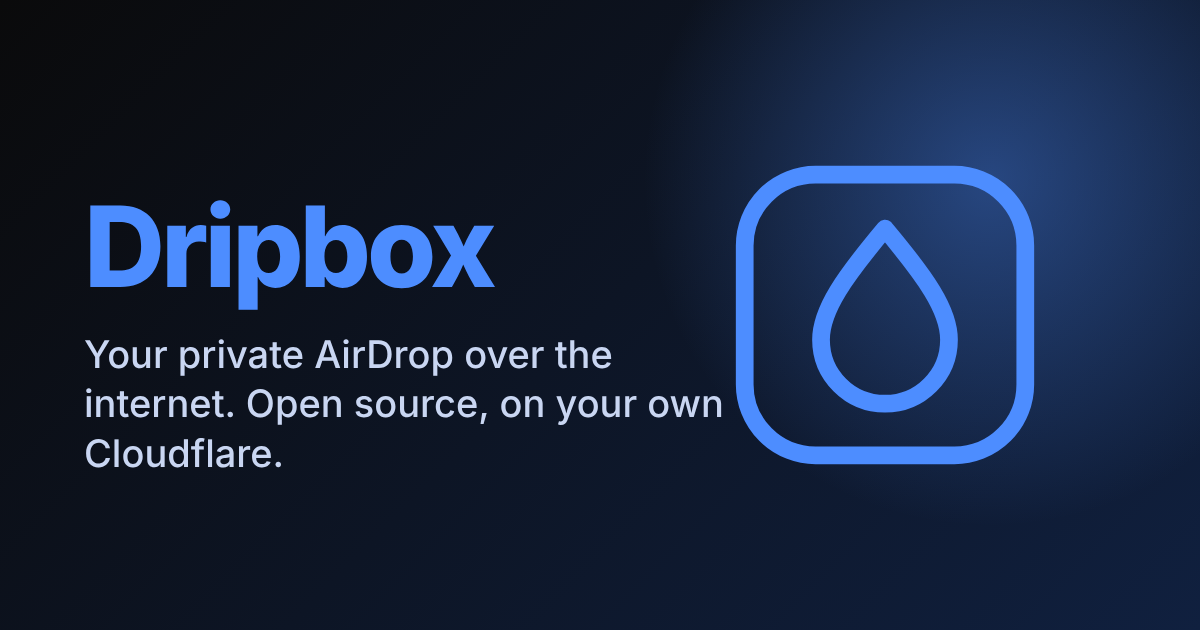
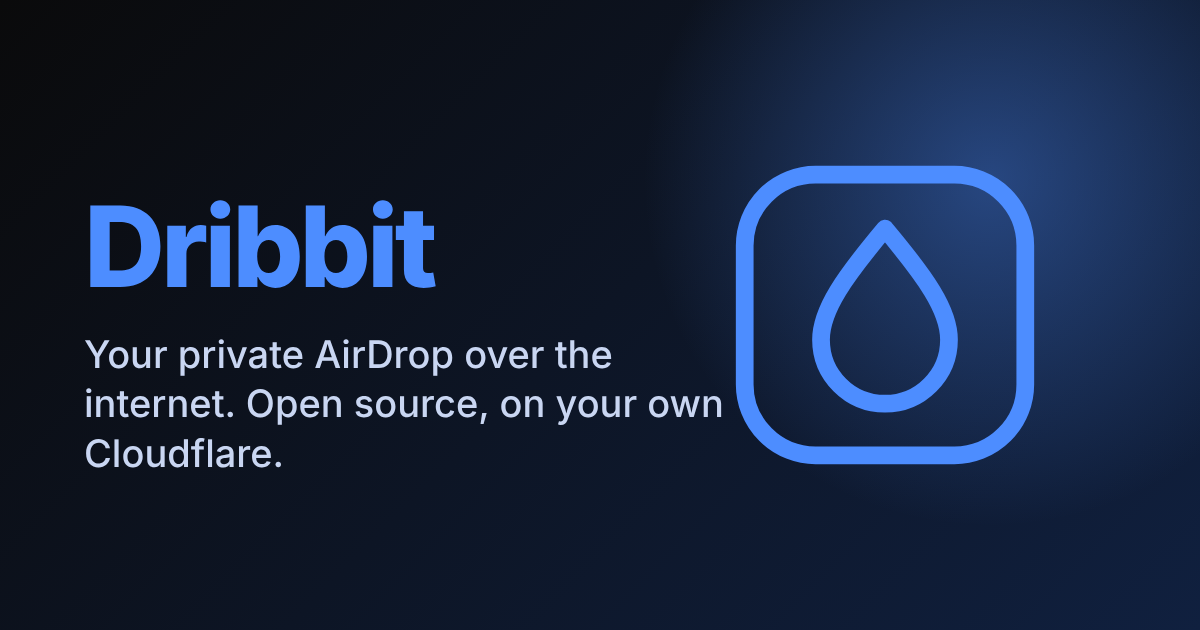
Rename the project to Dribbit
Claude-Session: https://claude.ai/code/session_01AAFahuwgiKiusWtWqh5i47

Changed region(s): [[0.3083, 0.3016, 0.4317, 0.4825], [0.185, 0.4524, 0.2158, 0.5127], [0.185, 0.3016, 0.2158, 0.3619]]

diff --git a/index.html b/index.html
@@ -3,21 +3,21 @@
 <head>
 <meta charset="utf-8">
 <meta name="viewport" content="width=device-width, initial-scale=1, viewport-fit=cover">
-<title>Dripbox: your own private AirDrop over the internet</title>
-<meta name="description" content="Dripbox is an open-source, self-hosted private AirDrop. Send text, links and files between your phone, laptop and PC. Runs free on your own Cloudflare account.">
-<link rel="canonical" href="https://dripbox.pages.dev/">
+<title>Dribbit: your own private AirDrop over the internet</title>
+<meta name="description" content="Dribbit is an open-source, self-hosted private AirDrop. Send text, links and files between your phone, laptop and PC. Runs free on your own Cloudflare account.">
+<link rel="canonical" href="https://dribbit.pages.dev/">
 <meta name="robots" content="index,follow,max-image-preview:large">
 <!-- Search Console: paste the verification tag here -->
 <meta property="og:type" content="website">
-<meta property="og:site_name" content="Dripbox">
-<meta property="og:title" content="Dripbox: your own private AirDrop over the internet">
-<meta property="og:description" content="Dripbox is an open-source, self-hosted private AirDrop. Send text, links and files between your phone, laptop and PC. Runs free on your own Cloudflare account.">
-<meta property="og:url" content="https://dripbox.pages.dev/">
-<meta property="og:image" content="https://dripbox.pages.dev/og.png">
+<meta property="og:site_name" content="Dribbit">
+<meta property="og:title" content="Dribbit: your own private AirDrop over the internet">
+<meta property="og:description" content="Dribbit is an open-source, self-hosted private AirDrop. Send text, links and files between your phone, laptop and PC. Runs free on your own Cloudflare account.">
+<meta property="og:url" content="https://dribbit.pages.dev/">
+<meta property="og:image" content="https://dribbit.pages.dev/og.png">
 <meta property="og:image:width" content="1200">
 <meta property="og:image:height" content="630">
 <meta name="twitter:card" content="summary_large_image">
-<script type="application/ld+json">{"@context": "https://schema.org", "@graph": [{"@type": "WebSite", "name": "Dripbox", "alternateName": ["Dripbox AirDrop", "Dripbox private file sharing"], "url": "https://dripbox.pages.dev/"}, {"@type": "SoftwareApplication", "name": "Dripbox", "url": "https://dripbox.pages.dev/", "description": "Dripbox is an open-source, self-hosted private AirDrop. Send text, links and files between your phone, laptop and PC. Runs free on your own Cloudflare account.", "applicationCategory": "UtilitiesApplication", "operatingSystem": "Any", "isAccessibleForFree": true, "offers": {"@type": "Offer", "price": "0", "priceCurrency": "USD"}, "codeRepository": "https://github.com/Fane-dinte/Dripbox", "license": "https://opensource.org/licenses/MIT", "sameAs": ["https://github.com/Fane-dinte/Dripbox"]}]}</script>
+<script type="application/ld+json">{"@context": "https://schema.org", "@graph": [{"@type": "WebSite", "name": "Dribbit", "alternateName": ["Dribbit AirDrop", "Dribbit private file sharing"], "url": "https://dribbit.pages.dev/"}, {"@type": "SoftwareApplication", "name": "Dribbit", "url": "https://dribbit.pages.dev/", "description": "Dribbit is an open-source, self-hosted private AirDrop. Send text, links and files between your phone, laptop and PC. Runs free on your own Cloudflare account.", "applicationCategory": "UtilitiesApplication", "operatingSystem": "Any", "isAccessibleForFree": true, "offers": {"@type": "Offer", "price": "0", "priceCurrency": "USD"}, "codeRepository": "https://github.com/Fane-dinte/Dribbit", "license": "https://opensource.org/licenses/MIT", "sameAs": ["https://github.com/Fane-dinte/Dribbit"]}]}</script>
 <meta name="theme-color" content="#f4f1ec" media="(prefers-color-scheme: light)">
 <meta name="theme-color" content="#141311" media="(prefers-color-scheme: dark)">
 <link rel="manifest" href="/manifest.webmanifest">
@@ -237,22 +237,22 @@ dialog .row { margin-top: 16px; }
   <symbol id="i-x" viewBox="0 0 24 24" fill="none" stroke="currentColor" stroke-width="2" stroke-linecap="round"><path d="m6 6 12 12M18 6 6 18"/></symbol>
 </svg>
 
-<div class="seo-text"><h1>Dripbox: your own private AirDrop over the internet</h1><p>Dripbox is a free, open-source, self-hosted private AirDrop. Send text, links, photos and files between your phone, laptop and PC, or share the password with friends. It runs on your own Cloudflare account (Pages + R2), with no server and no subscription.</p><p>Dripbox este un AirDrop privat pe internet, open source: trimiți text, linkuri și fișiere între telefon, laptop și PC, pe propriul tău cont Cloudflare.</p><a href="https://github.com/Fane-dinte/Dripbox">Dripbox on GitHub: source code and setup guide</a></div>
+<div class="seo-text"><h1>Dribbit: your own private AirDrop over the internet</h1><p>Dribbit is a free, open-source, self-hosted private AirDrop. Send text, links, photos and files between your phone, laptop and PC, or share the password with friends. It runs on your own Cloudflare account (Pages + R2), with no server and no subscription.</p><p>Dribbit este un AirDrop privat pe internet, open source: trimiți text, linkuri și fișiere între telefon, laptop și PC, pe propriul tău cont Cloudflare.</p><a href="https://github.com/Fane-dinte/Dribbit">Dribbit on GitHub: source code and setup guide</a></div>
 <div id="login" class="wrap login" hidden>
   <form id="loginForm" autocomplete="on">
     <svg><use href="#i-box"/></svg>
-    <h1>Dripbox</h1>
+    <h1>Dribbit</h1>
     <p>Fișierele tale, pe toate dispozitivele.</p>
     <input class="field" id="pass" type="password" name="password" autocomplete="current-password" placeholder="Parola" required>
     <button class="btn primary" type="submit">Intră</button>
     <div class="e" id="loginErr"></div>
-    <a class="src" href="https://github.com/Fane-dinte/Dripbox" rel="noopener">Open source · get your own Dripbox</a>
+    <a class="src" href="https://github.com/Fane-dinte/Dribbit" rel="noopener">Open source · get your own Dribbit</a>
   </form>
 </div>
 
 <div id="app" class="wrap" hidden>
   <header>
-    <div class="logo"><svg><use href="#i-box"/></svg>Dripbox</div>
+    <div class="logo"><svg><use href="#i-box"/></svg>Dribbit</div>
     <div class="meter" id="meter"></div>
     <button class="install" id="installBtn" type="button" hidden><svg><use href="#i-down"/></svg><span>Instalează</span></button>
     <button class="chip" id="devBtn" type="button" title="Setări"><svg><use href="#i-dev"/></svg><span id="devName"></span></button>
@@ -302,7 +302,7 @@ dialog .row { margin-top: 16px; }
   </div>
   <div id="installBox">
     <label>Aplicație</label>
-    <button class="btn" id="installBtn2" type="button"><svg><use href="#i-down"/></svg>Instalează Dripbox</button>
+    <button class="btn" id="installBtn2" type="button"><svg><use href="#i-down"/></svg>Instalează Dribbit</button>
     <p class="howto" id="howto"></p>
   </div>
   <div id="ownerBox" hidden>
@@ -467,7 +467,7 @@ async function refresh() {
     Object.assign(S, { items: j.items, used: j.used, limit: j.limit, ttl: j.ttl, part: j.part || S.part, small: j.small || S.small, ops: j.ops || 0, opsCap: j.opsCap || 0 });
     if (S.booted) {
       S.fresh = j.items.filter((x) => !before.has(x.id) && !S.mine.has(x.id)).map((x) => x.id);
-      if (S.fresh.length && document.hidden) document.title = "● Dripbox";
+      if (S.fresh.length && document.hidden) document.title = "● Dribbit";
     }
     S.booted = true;
     render();
@@ -483,7 +483,7 @@ setInterval(() => {
   const every = Date.now() - lastInput > 5 * 60e3 ? 30e3 : 4e3;
   if (Date.now() - lastPoll >= every - 200) { lastPoll = Date.now(); refresh(); }
 }, 1000);
-document.addEventListener("visibilitychange", () => { if (!document.hidden) { document.title = "Dripbox"; refresh(); } });
+document.addEventListener("visibilitychange", () => { if (!document.hidden) { document.title = "Dribbit"; refresh(); } });
 
 // ---------- the composer: text, and picked files shown first (like a chat app) and sent together
 const msg = $("#msg");
@@ -722,7 +722,7 @@ $("#list").addEventListener("click", async (e) => {
 $("#devBtn").onclick = () => {
   $("#devInput").value = device;
   const days = S.ttl ? `Ce nu fixezi se șterge singur după ${S.ttl} zile.` : "Nimic nu se șterge automat.";
-  $("#info").textContent = `${days} Spațiu: ${fmtSize(S.used)} din ${Math.round(S.limit / 1024 ** 3)} GB. Scrieri luna asta: ${(S.ops || 0).toLocaleString("ro-RO")} din ${(S.opsCap || 0).toLocaleString("ro-RO")}. Peste limite, Dripbox refuză încărcările în loc să coste ceva.`;
+  $("#info").textContent = `${days} Spațiu: ${fmtSize(S.used)} din ${Math.round(S.limit / 1024 ** 3)} GB. Scrieri luna asta: ${(S.ops || 0).toLocaleString("ro-RO")} din ${(S.opsCap || 0).toLocaleString("ro-RO")}. Peste limite, Dribbit refuză încărcările în loc să coste ceva.`;
   $("#dlg").showModal();
 };
 $("#dlgOk").onclick = () => {
@@ -753,16 +753,16 @@ function installUI() {
   $("#installBox").hidden = installed();
   const ua = navigator.userAgent;
   let how = "";
-  if (installEvt) how = "Apare ca aplicație separată, cu iconiță proprie." + (/Android/i.test(ua) ? " După instalare, Dripbox apare și în meniul Distribuie (Share) al telefonului." : "");
+  if (installEvt) how = "Apare ca aplicație separată, cu iconiță proprie." + (/Android/i.test(ua) ? " După instalare, Dribbit apare și în meniul Distribuie (Share) al telefonului." : "");
   else if (/iPhone|iPad/i.test(ua)) how = "Pe iPhone: în Safari apasă Partajează (pătratul cu săgeată), apoi „Adaugă pe ecranul principal”.";
-  else if (/Android/i.test(ua)) how = "În Chrome: meniul ⋮ → „Instalează aplicația” (sau „Adaugă pe ecranul de pornire”). După instalare, Dripbox apare și în meniul Distribuie.";
-  else if (/Firefox/i.test(ua)) how = "Firefox pe calculator nu instalează aplicații web. Deschide Dripbox în Chrome sau Edge și apasă iconița de instalare din bara de adrese.";
-  else how = "În Chrome sau Edge: iconița de instalare din dreapta barei de adrese (sau meniul ⋮ → „Instalează Dripbox”).";
+  else if (/Android/i.test(ua)) how = "În Chrome: meniul ⋮ → „Instalează aplicația” (sau „Adaugă pe ecranul de pornire”). După instalare, Dribbit apare și în meniul Distribuie.";
+  else if (/Firefox/i.test(ua)) how = "Firefox pe calculator nu instalează aplicații web. Deschide Dribbit în Chrome sau Edge și apasă iconița de instalare din bara de adrese.";
+  else how = "În Chrome sau Edge: iconița de instalare din dreapta barei de adrese (sau meniul ⋮ → „Instalează Dribbit”).";
   $("#howto").textContent = how;
   $("#installBtn2").hidden = !installEvt;
 }
 addEventListener("beforeinstallprompt", (e) => { e.preventDefault(); installEvt = e; installUI(); });
-addEventListener("appinstalled", () => { installEvt = null; installUI(); toast("Dripbox e instalat"); });
+addEventListener("appinstalled", () => { installEvt = null; installUI(); toast("Dribbit e instalat"); });
 async function doInstall() {
   if (!installEvt) { $("#devBtn").click(); return; }
   installEvt.prompt();

diff --git a/_worker.js b/_worker.js
@@ -1,4 +1,4 @@
-// Dripbox: a private drop box between your own devices.
+// Dribbit: a private drop box between your own devices.
 // Cloudflare Pages (advanced mode) + one R2 bucket bound as BUCKET + a PASS secret (the password you give out).
 // Optional ADMIN_PASS secret: logging in with it makes that device the owner, who sees every logged-in device,
 // can sign any of them out and can change the shared password from inside the app.

diff --git a/sw.js b/sw.js
@@ -1,5 +1,5 @@
-// Dripbox service worker: keeps the app shell offline-ready and receives things from Android's Share menu.
-const V = "dripbox-9";
+// Dribbit service worker: keeps the app shell offline-ready and receives things from Android's Share menu.
+const V = "dribbit-1";
 const SHELL = ["/", "/manifest.webmanifest", "/icon-192.png"];
 
 self.addEventListener("install", (e) => {

diff --git a/README.md b/README.md
@@ -1,4 +1,4 @@
-<p align="center"><img src="docs/banner.svg" alt="Dripbox" width="100%"></p>
+<p align="center"><img src="docs/banner.svg" alt="Dribbit" width="100%"></p>
 
 <p align="center">
   <img alt="Cloudflare Pages" src="https://img.shields.io/badge/Cloudflare-Pages-F38020?logo=cloudflare&logoColor=white">
@@ -7,7 +7,7 @@
   <img alt="MIT license" src="https://img.shields.io/badge/license-MIT-green">
 </p>
 
-**Dripbox** is a private "AirDrop" over the internet. Send text, links, photos and files between your phone, laptop and PC, and share the password with friends. It all runs in one Cloudflare Worker plus an R2 bucket in **your own account**: no server, no database, no subscription.
+**Dribbit** is a private "AirDrop" over the internet. Send text, links, photos and files between your phone, laptop and PC, and share the password with friends. It all runs in one Cloudflare Worker plus an R2 bucket in **your own account**: no server, no database, no subscription.
 
 ## What it does
 
@@ -36,29 +36,29 @@ You need a Cloudflare account (free). R2 asks for a card on file, but nothing is
 ### Option 1: in the browser
 
 1. **Get the files:** Code → Download ZIP, then unzip. (`README.md` and `docs/` are not needed, but they do no harm.)
-2. **Create the bucket:** Cloudflare → **R2 Object Storage → Create bucket**, named `dripbox`, left private.
-3. **Create the project:** **Workers & Pages → Create → Pages → Upload assets**, name it `dripbox`, drag in the *contents* of the folder (with `_worker.js` at the root, not inside a subfolder) and press **Deploy**.
-4. **Bind the bucket:** project → **Settings → Bindings → Add → R2 bucket**, variable name **`BUCKET`**, bucket `dripbox`.
+2. **Create the bucket:** Cloudflare → **R2 Object Storage → Create bucket**, named `dribbit`, left private.
+3. **Create the project:** **Workers & Pages → Create → Pages → Upload assets**, name it `dribbit`, drag in the *contents* of the folder (with `_worker.js` at the root, not inside a subfolder) and press **Deploy**.
+4. **Bind the bucket:** project → **Settings → Bindings → Add → R2 bucket**, variable name **`BUCKET`**, bucket `dribbit`.
 5. **Set the passwords:** **Settings → Variables and Secrets → Add** (type *Secret*):
    - `PASS`: the password you give to friends.
    - `ADMIN_PASS`: your owner password (different from `PASS`).
    - optionally, as variables: `TTL_DAYS` (default `30`, `0` = never delete) and `LIMIT_GB` (default `9`, max `9.5`).
 6. **Redeploy:** **Deployments → Create deployment** and upload the folder again. Bindings and secrets only apply on the next deploy.
-7. Open `https://dripbox.pages.dev` (or the name you chose), sign in with `ADMIN_PASS` and install it from the browser menu.
+7. Open `https://dribbit.pages.dev` (or the name you chose), sign in with `ADMIN_PASS` and install it from the browser menu.
 
 ### Option 2: from a terminal
 
 ```bash
 npm i -g wrangler
 wrangler login
-wrangler r2 bucket create dripbox
-wrangler pages project create dripbox --production-branch main
-wrangler pages deploy . --project-name dripbox
-wrangler pages secret put PASS --project-name dripbox
-wrangler pages secret put ADMIN_PASS --project-name dripbox
+wrangler r2 bucket create dribbit
+wrangler pages project create dribbit --production-branch main
+wrangler pages deploy . --project-name dribbit
+wrangler pages secret put PASS --project-name dribbit
+wrangler pages secret put ADMIN_PASS --project-name dribbit
 ```
 
-Then bind the bucket in the dashboard (step 4 above: **Settings → Bindings → R2 bucket**, `BUCKET` → `dripbox`) and run `wrangler pages deploy . --project-name dripbox` once more.
+Then bind the bucket in the dashboard (step 4 above: **Settings → Bindings → R2 bucket**, `BUCKET` → `dribbit`) and run `wrangler pages deploy . --project-name dribbit` once more.
 
 ### Run it locally
 
@@ -73,11 +73,11 @@ Open `http://localhost:8788`. Files are kept in a simulated R2 on disk.
 - `_worker.js` is the whole API (Cloudflare Pages, *advanced mode*). Everything else is static: `index.html` (the entire app), `sw.js`, `manifest.webmanifest` and icons.
 - In R2: `_index.json` (the item list, the write counter and pending multipart reservations, updated with compare-and-swap on the etag), `_sessions.json` (login sessions), `_auth.json` (the guests' password, set from the app and stored salted + SHA-256) and `f/<id>` (the files).
 - An `HttpOnly`, HMAC-signed session cookie valid for 400 days, accepted only while the session exists in `_sessions.json`.
-- With every new version, bump `const V = "dripbox-N"` in `sw.js` so phones pick it up.
+- With every new version, bump `const V = "dribbit-N"` in `sw.js` so phones pick it up.
 
 ## Known limits
 
-- iPhone: no Share → Dripbox (Safari doesn't support Web Share Target). Firefox on desktop can't install PWAs.
+- iPhone: no Share → Dribbit (Safari doesn't support Web Share Target). Firefox on desktop can't install PWAs.
 - Sharing from the phone works only when installed from **Chrome**, not Brave.
 - Some in-app browsers block the clipboard; test in Chrome or Edge.
 
